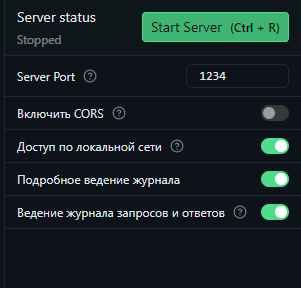
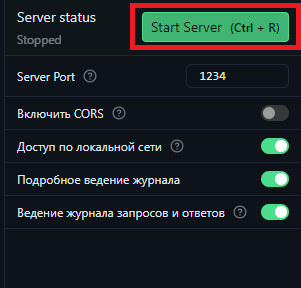
modified:   README.md 	modified:   img/image.png 	new file:   img/image1.png 	new file:   img/image2.png 	new file:   img/ip.png

Changed region(s): [[0.4186, 0.0, 1.0, 0.1875]]

diff --git a/README.md b/README.md
@@ -19,8 +19,10 @@
 
 # Инструкция для запуска
 1. Установите Lm Studio (https://lmstudio.ai/) 
-    - Скачайте модель для Embeddings: nomic-embed-text-v1.5-GGUF/nomic-embed-text-v1.5.f32.gguf
+    - Скачайте модель для Embeddings: Выберите 'Searchall' и найдите nomic-embed-text-v1.5-GGUF/nomic-embed-text-v1.5.f32.gguf
+    ![Модель для Embeddings](img/image1.png)
     - Скачайте модель для Обработки текста: Hermes-3-Llama-3.1-8B-GGUF/Hermes-3-Llama-3.1-8B.Q4_K_M.gguf
+    ![Модель для Обработки текста](img/image2.png)
     - PS: модель для обработки можно использывать ЛЮБУЮ, НО придеться преерписывать выод в model.py 
     для Embeddings не получиться, так как надо будет преписывать класс в LocalEmbeddings.py
     - Запустрите локальный ссервер и подключите скаченные модели
@@ -29,6 +31,8 @@
 3. В файле конфигурации:
     - base_url_* -- это ip полученные в ходе запуска локального сервера
     - model_* -- это название моделей
+    PS: IP будет выглядить примерно так
+    ![Пример ip](img/ip.png)
 4. Переместите файлы для дообучеия в dataset_input
 - Для консоьного запуска
 5. Запустите блокнот main.ipymb
